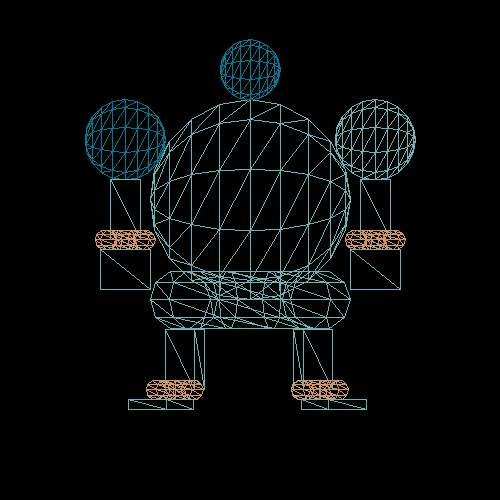
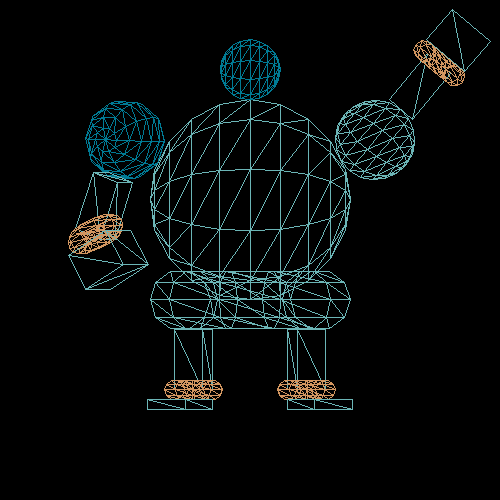
fixed rotate error

diff --git a/parser.c b/parser.c
@@ -160,38 +160,48 @@ void parse_file ( char * filename,
 			fgets(line, 255, f);
 			sscanf(line, "%lf %lf %lf", &x, &y, &z);
 			tmp = make_scale(x, y, z);
-			matrix_mult(tmp, stk->data[stk->top]);
+			matrix_mult(stk->data[stk->top], tmp);
+			copy_matrix(tmp, stk->data[stk->top]);
 		}
 		else if ( strncmp(line, "translate", strlen(line)) == 0 ) {
 			fgets(line, 255, f);    
 			sscanf(line, "%lf %lf %lf", &x, &y, &z);
 			tmp = make_translate(x, y, z);
-			matrix_mult(tmp, stk->data[stk->top]);
+			matrix_mult(stk->data[stk->top], tmp);
+			copy_matrix(tmp, stk->data[stk->top]);
 		}
 		else if ( strncmp(line, "xrotate", strlen(line)) == 0 ) {
 			fgets(line, 255, f);
 			sscanf(line, "%lf", &angle);
 			angle = angle * (M_PI / 180);
 			tmp = make_rotX( angle);
-			matrix_mult(tmp, stk->data[stk->top]);
+			matrix_mult(stk->data[stk->top], tmp);
+			copy_matrix(tmp, stk->data[stk->top]);
 		}
 		else if ( strncmp(line, "yrotate", strlen(line)) == 0 ) {
 			fgets(line, 255, f);
 			sscanf(line, "%lf", &angle);
 			angle = angle * (M_PI / 180);
 			tmp = make_rotY( angle);
-			matrix_mult(tmp, stk->data[stk->top]);
+			matrix_mult(stk->data[stk->top], tmp);
+			copy_matrix(tmp, stk->data[stk->top]);
 		}
 		else if ( strncmp(line, "zrotate", strlen(line)) == 0 ) {
 			fgets(line, 255, f);
 			sscanf(line, "%lf", &angle);
 			angle = angle * (M_PI / 180);
 			tmp = make_rotZ( angle);
-			matrix_mult(tmp, stk->data[stk->top]);
+  		matrix_mult(stk->data[stk->top], tmp);
+			copy_matrix(tmp, stk->data[stk->top]);
 		}
-		else if ( strncmp(line, "ident", strlen(line)) == 0 ) {
-			//ident(transform);
-		}
+		/*
+			else if ( strncmp(line, "ident", strlen(line)) == 0 ) {
+			ident(transform);
+			}
+			else if ( strncmp(line, "clear", strlen(line)) == 0 ) {
+			//pm->lastcol = 0;
+			}
+		*/
 		else if ( strncmp(line, "color", strlen(line)) == 0 ) {
 			fgets(line, 255, f);
 			sscanf(line, "%lf %lf %lf", &x, &y, &z);
@@ -199,19 +209,12 @@ void parse_file ( char * filename,
 			g.green = y;
 			g.blue = z;
 		}
-		else if ( strncmp(line, "print", strlen(line)) == 0 ) {
-			print_stack(stk);
-			printf("\n");
-		}
 		else if ( strncmp(line, "display", strlen(line)) == 0 ) {
 			display(s);
 		}
 		else if ( strncmp(line, "save", strlen(line)) == 0 ) {
 			fgets(line, 255, f);
 			save_extension(s, line);
-		}
-		else if ( strncmp(line, "clear", strlen(line)) == 0 ) {
-			//pm->lastcol = 0;
 		}
 		else if ( strncmp(line, "quit", strlen(line)) == 0 ) {
 			return;
